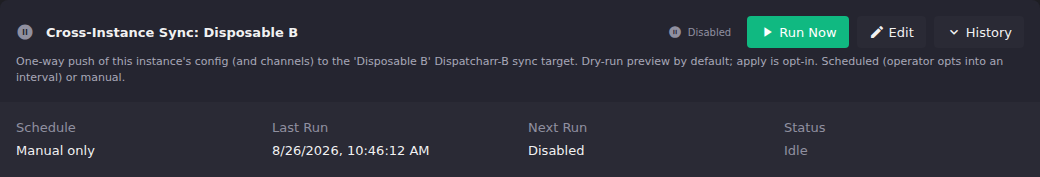
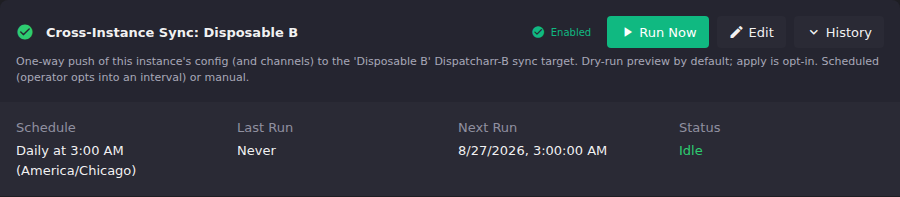
fix(sync): remediate operator walkthrough review

diff --git a/frontend/src/components/settings/SyncTargetsCard.test.tsx b/frontend/src/components/settings/SyncTargetsCard.test.tsx
@@ -251,6 +251,28 @@ describe('SyncTargetsCard', () => {
     );
   });
 
+  it('a failed preview revokes Apply from an earlier successful preview', async () => {
+    (api.runTask as Mock)
+      .mockResolvedValueOnce({ success: true, message: 'preview ok' })
+      .mockResolvedValueOnce({
+        success: false,
+        error: 'SYNC_DESTINATION_UNREADABLE',
+        message: 'Cross-instance sync preview could not read the destination.',
+      });
+    await renderCard([TARGET]);
+    await waitFor(() => expect(screen.getByText('Living Room B')).toBeInTheDocument());
+
+    fireEvent.click(screen.getByTestId('sync-target-preview-7'));
+    expect(await screen.findByTestId('sync-target-apply-7')).toBeInTheDocument();
+
+    fireEvent.click(screen.getByTestId('sync-target-preview-7'));
+
+    await waitFor(() => expect(api.runTask).toHaveBeenCalledTimes(2));
+    await waitFor(() =>
+      expect(screen.queryByTestId('sync-target-apply-7')).not.toBeInTheDocument(),
+    );
+  });
+
   it('Apply (after preview) runs with confirm_apply: true', async () => {
     (api.runTask as Mock).mockResolvedValue({ success: true, message: 'preview ok' });
     await renderCard([TARGET]);

diff --git a/frontend/src/components/settings/SyncTargetsCard.tsx b/frontend/src/components/settings/SyncTargetsCard.tsx
@@ -419,6 +419,11 @@ export function SyncTargetsCard() {
 
   const handlePreview = useCallback(
     async (target: api.SyncTarget) => {
+      setPreviewedIds((prev) => {
+        const next = new Set(prev);
+        next.delete(target.id);
+        return next;
+      });
       markBusy(target.id);
       try {
         // Per-target task id (7ipq2.3 / ADR-013 S6): each target owns

diff --git a/docs/user_guide/backup-restore/cross-instance-sync.md b/docs/user_guide/backup-restore/cross-instance-sync.md
@@ -83,7 +83,13 @@ Cross-instance sync is a recurring, automated one-way push of configuration from
 The target appears in the list and starts **Enabled**. This target-row control
 allows runs to reach B; it does not create or enable a recurring schedule.
 
-![Enabled Disposable B sync target row with status and target controls](../../images/user_guide/backup-restore/1-sync-target-row.png)
+ECM also creates a matching **Cross-Instance Sync: `<target>`** task
+automatically. Task creation is best-effort: if it is missing from **Scheduled
+Tasks**, restart ECM to run the startup reconciliation, then reload the page. If
+it is still missing, check the ECM log for `Failed to register sync task` and
+fix that registration error before scheduling sync.
+
+![Newly created enabled Disposable B target before its first run](../../images/user_guide/backup-restore/1-sync-target-row.png)
 
 ### Step 2: Run a preview
 
@@ -92,7 +98,7 @@ Before configuring a schedule, run a manual dry-run to confirm A can reach B and
 1. On the target row, click **Sync now (preview)**.
 2. ECM runs a dry-run (no changes are written to B). The results show what would be created, updated, or skipped.
 3. Review the preview. If you see unexpected conflicts, see [Troubleshooting](#troubleshooting).
-4. After a successful preview, **Apply** appears. Click it to write the changes to B.
+4. After a successful preview, **Apply** appears. **Destructive warning: Apply makes A the source of truth and overwrites matching edits on B.** Click it only when B is ready to be converged to A.
 5. Accept the browser's native confirmation only after you have read the source-wins warning. This confirmation is browser chrome and is therefore intentionally not pictured. A failed preview does not make **Apply** available.
 
 After a successful apply, the target row shows the last sync timestamp and the outcome.
@@ -107,7 +113,7 @@ After a successful apply, the target row shows the last sync timestamp and the o
 6. Under **Task Parameters**, turn on **Apply changes on every scheduled run**. ECM requires this explicit choice; it will not save a recurring preview-only schedule.
 7. Click **Add Schedule**, then save the task settings.
 
-![Disabled manual Cross-Instance Sync task card for Disposable B](../../images/user_guide/backup-restore/2-sync-scheduled-task-card.png)
+![Enabled recurring Cross-Instance Sync task for Disposable B](../../images/user_guide/backup-restore/2-sync-scheduled-task-card.png)
 
 ECM now applies the sync automatically on that schedule. Automatic execution
 requires all three gates: the target row is **Enabled**, the per-target task is
@@ -119,11 +125,11 @@ If you have several sync targets, they sync independently and can run at the sam
 ### The kill switch
 
 The **Enabled** toggle on each target row is the target kill switch. Turning it
-off blocks manual preview/apply actions and scheduled runs for that target. The
-target definition (URL and credentials) and its separate Scheduled Tasks
-configuration are preserved. Turning the target back on permits runs again; the
-scheduled task and at least one child schedule must also remain enabled for
-automatic runs to resume.
+off prevents new manual and scheduled runs for that target. It does not cancel
+an apply that is already executing. The target definition (URL and credentials)
+and its separate Scheduled Tasks configuration are preserved. Turning the
+target back on permits runs again; the scheduled task and at least one child
+schedule must also remain enabled for automatic runs to resume.
 
 ---
 
@@ -136,15 +142,15 @@ as the final proof:
 2. **Create the target on ECM-A.** Use B's base URL and API credentials, then leave the new target **Enabled**.
 3. **Preview.** Click **Sync now (preview)** and review the create, update, skip, conflict, and failure results. Stop if the plan is unexpected.
 4. **Apply.** Click the newly available **Apply**, read the native confirmation, and confirm the source-wins write.
-5. **Verify on B, not only in A's notification.** Log in to B and check the expected channel groups, channels, stream assignments, profiles, logos, M3U accounts, and EPG sources. Open representative channels and verify that a stream actually plays; an HTTP response alone is not proof of video.
+5. **Verify on B, not only in A's notification.** Log in to B and check the expected channel groups, channels, stream assignments, profiles, logos, M3U accounts, and EPG sources. Refresh B's EPG source, then confirm representative mapped channels show usable programme data; source existence alone is not enough. Open representative channels and verify that a stream actually plays; an HTTP response alone is not proof of video.
 6. **Repeat preview and apply without changing A.** The repeat preview should plan no new destination objects. Repeat-run update counters can still be non-zero, so do not require `updated 0`.
-7. **Prove idempotency from B's normalized state.** Compare the destination collections before and after the repeat apply after removing volatile timestamps and cache-buster fields. Unchanged normalized destination state is the proof that the repeat run converged without churn.
+7. **Check repeat stability on B.** Recheck the same representative groups, channels, stream assignments, profiles, logos, and programme data. Confirm the repeat did not create duplicates, remove links, or change those items unexpectedly. This proves only the B state you inspected stayed stable; proving full A/B equivalence requires a separate category-by-category A-vs-B comparison.
 8. **Configure the recurring task.** Under **Settings → Scheduled Tasks**, edit **Cross-Instance Sync: `<target>`**, enable the task, add an enabled schedule, and enable **Apply changes on every scheduled run**.
 
-**Expected repeat-run result:** B remains equivalent to A for the categories in
-scope. A repeat apply may report updates while producing no normalized state
-change; the destination comparison, not a zero-update counter, decides
-idempotency.
+**Expected repeat-run result:** the preview plans no new destination objects and
+the inspected B state remains stable. A repeat apply may report updates, so a
+zero-update counter is not required. Do not claim full A/B equivalence unless
+you compared the same fields in both instances.
 
 **The encrypted-backup seeding step this list used to start with is no longer needed.** It existed
 because sync could not carry credentials, so B had to get them from a backup or by hand. Sync
@@ -240,7 +246,8 @@ Check whether the `ECMSyncStalledTargetDrift` alert has fired. This alert trigge
 Common causes:
 - **B is unreachable**: confirm connectivity to `base_url` from the ECM container.
 - **Credentials rotated/revoked**: if B's API credentials changed after the sync schedule was set up, ECM aborts the run at the credential-freshness check. Edit the sync target, update the credentials, save, and trigger a manual sync.
-- **Target disabled**: check the **Enable** toggle on the target. A disabled target never runs.
+- **Automatic sync does not start**: check all three gates. The target row must show **Enabled**; in **Scheduled Tasks**, **Enable task** must be on; and at least one schedule must have **Enable this schedule** on. Also confirm that schedule has **Apply changes on every scheduled run** enabled.
+- **Per-target task is missing**: restart ECM to run startup reconciliation, reload **Scheduled Tasks**, and look again for **Cross-Instance Sync: `<target>`**. If it is still absent, check the ECM log for `Failed to register sync task` and correct the reported registration error.
 - **Partial-apply loop**: the sync runs but a category keeps failing on apply (not B unreachable, but a recurring mix/rollback). Pull the most recent sync report from the task history; identify the failing category.
 
 ### The sync reports "Completed with Warnings"

diff --git a/tests/dbas-test-env/README.md b/tests/dbas-test-env/README.md
@@ -1619,31 +1619,46 @@ plus the two blocks under "Tearing the whole thing down" above.
 
 ---
 
-# Acceptance record - 2026-08-26
+# Acceptance evidence record - 2026-08-26
 
-**ACCEPTED within the scope below** against Dispatcharr **0.29.0** on A and B
-and ECM commit **`8e9fb19bc68de3f138bf73a3aeb2373596703cfe`**. The run used the
-retained disposable environment and recorded no provider host, username,
-password, stream URL, or raw custom property.
+**PARTIAL EVIDENCE ONLY; this record does not establish A/B equivalence or
+repeat-run idempotency.** The run used Dispatcharr **0.29.0** on A and B and ECM
+commit **`8e9fb19bc68de3f138bf73a3aeb2373596703cfe`** in the retained disposable
+environment. It recorded no provider host, username, password, stream URL, or
+raw custom property.
 
-## Fresh-destination result
+## Evidence retained
 
-- Preview across 11 categories: **create 1,416 / update 6 / skip 9 / 0 conflicts**.
-- Apply: **create 951 / update 6 / failed 0**.
-- B after apply: **316 channels, 316 streams, 316 channel-stream links; 316 logos and 316 channel-logo bindings; 781 channel groups; 782 account-group rows with 5 enabled; 4 M3U accounts including the `ECM Custom Streams (DBAS restore)` fallback; 1 EPG source**.
-- Playback: one representative B channel returned a client-bounded **1,880-byte MPEG-TS sample** with valid TS framing. The stream address was neither recorded nor printed.
-- Credential propagation: a provider credential was rotated on A, propagated to B, then restored on A and propagated to B again. Verification compared outcomes without displaying or recording either value.
-- ECM's `/config/uploads/logos/` directory remained empty. Logo acceptance therefore did not depend on planting a fixture in ECM's own upload directory.
+- Preview across 11 categories reported **create 1,416 / update 6 / skip 9 / 0 conflicts**.
+- Apply reported **create 951 / update 6 / failed 0**.
+- B after apply was recorded as **316 channels, 316 streams, 316 channel-stream links; 316 logos and 316 channel-logo bindings; 781 channel groups; 782 account-group rows with 5 enabled; 4 M3U accounts including the `ECM Custom Streams (DBAS restore)` fallback; 1 EPG source**.
+- One representative B channel returned a client-bounded **1,880-byte MPEG-TS sample** with valid TS framing. The stream address was neither recorded nor printed.
+- A provider credential was rotated on A, propagated to B, restored on A, and propagated to B again. Verification compared outcomes without displaying or recording either value.
+- Logo evidence covers **remote-URL replication and channel-logo binding only**. All 316 logos were provider-published remote URLs, and ECM's `/config/uploads/logos/` remained empty. This run did **not** exercise copying Dispatcharr-hosted logo bytes.
+- Repeat preview reported **create 0 / update 6 / skip 1,109**; repeat apply reported **create 0 / update 322 / failed 0**.
 
-## Repeat-run and idempotency result
+## Audit limits
 
-- Repeat preview: **create 0 / update 6 / skip 1,109**.
-- Repeat apply: **create 0 / update 322 / failed 0**.
-- Normalized fingerprints for **15 destination collections** were unchanged before and after the repeat apply.
-
-The non-zero repeat update counts are not destination-churn evidence. The
-unchanged normalized destination fingerprints are the idempotency proof; sync
-can report updates while leaving the converged destination state unchanged.
+- No exact pre-sync B baseline from this run was retained. The earlier baseline
+  under **The sync, and what was read off B** belongs to the separate 2026-08-21
+  run and cannot prove that this run started from the same state. "Fresh
+  destination" is therefore not an auditable conclusion here.
+- The retained evidence does not include per-category reports that reconcile
+  preview **create 1,416** with apply **create 951**, or repeat-preview **update
+  6** with repeat-apply **update 322**. Preview plans and apply counters are
+  recorded as different observations; the discrepancies remain unexplained and
+  must not be interpreted as either loss or convergence.
+- The claimed 15-collection fingerprint proof was not retained with the names
+  of the collections, the normalization exclusions, the comparison command, or
+  the before/after hashes. Those 15 collections therefore cannot be enumerated
+  without invention, and the former unchanged-fingerprint/idempotency claim is
+  withdrawn.
+- No retained A-vs-B normalized comparison covers the accepted categories. The
+  destination counts and one playback sample support only the checks stated
+  above, not configuration equivalence.
+- **`v7d37` credential-bearing XC EPG URL behavior was not exercised.** This
+  fixture used the credential-free `cdn.epg.guru` source; no
+  `xmltv.php?username=...&password=...` EPG source existed in the run.
 
 ## Residual defect outside acceptance scope
 
@@ -1660,7 +1675,8 @@ cross-instance sync does not accept, waive, or close the UI bulk-creation defect
 Two credential-safe, tightly scoped screenshots now exist and are referenced by
 the guide: `docs/images/user_guide/backup-restore/1-sync-target-row.png` and
 `docs/images/user_guide/backup-restore/2-sync-scheduled-task-card.png`. They show
-only the disposable B target row and its closed scheduled-task card. They exclude
+only a newly created, enabled target before its first run and the same target's
+enabled recurring task with an active daily schedule. They exclude
 provider-facing fields, stream URLs, raw properties, forms, and browser-native
 confirmation.
 
